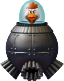
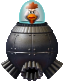
#29 Added bestiary support

diff --git a/NPCs/Chick.cs b/NPCs/Chick.cs
@@ -1,10 +1,12 @@
-using Terraria;
+using Microsoft.Xna.Framework;
+using Terraria;
+using Terraria.GameContent.Bestiary;
 using Terraria.GameContent.ItemDropRules;
 using Terraria.ID;
 using Terraria.ModLoader;
 
 namespace ChickenInvadersMod.NPCs
-{
+{   
     public class Chick : BaseChicken
     {
         int projectileType;
@@ -15,6 +17,15 @@ namespace ChickenInvadersMod.NPCs
         {
             DisplayName.SetDefault("Chick");
             Main.npcFrameCount[NPC.type] = Main.npcFrameCount[2];
+
+            NPCID.Sets.NPCBestiaryDrawModifiers drawModifiers = new NPCID.Sets.NPCBestiaryDrawModifiers(0)
+            {
+                Position = new Vector2(0f, -12f),
+                PortraitPositionXOverride = 0f,
+                PortraitPositionYOverride = -24f
+            };
+
+            NPCID.Sets.NPCBestiaryDrawOffset.Add(Type, drawModifiers);
         }
 
         public override void SetDefaults()
@@ -34,7 +45,15 @@ namespace ChickenInvadersMod.NPCs
             projectileDamage = NPC.damage / 2;
             projectileSpeed = 5f;
             Banner = NPC.type;
-            BannerItem = Mod.Find<ModItem>("ChickBanner").Type;
+            BannerItem = Mod.Find<ModItem>("ChickBanner").Type;            
+        }
+
+        public override void SetBestiary(BestiaryDatabase database, BestiaryEntry bestiaryEntry)
+        {
+            bestiaryEntry.Info.AddRange(new IBestiaryInfoElement[] {
+                ModInvasions.Chickens,
+                new FlavorTextBestiaryInfoElement("It's small and cute, but has a murderous look in its eyes."),
+            });            
         }
 
         public override void FindFrame(int frameHeight)
@@ -54,6 +73,7 @@ namespace ChickenInvadersMod.NPCs
 
             // Drop 1-5 of this item with 20% chance
             npcLoot.Add(ItemDropRule.Common(ModContent.ItemType<Items.ChickenTwinLegs>(), 5, 1, 5));
+            npcLoot.Add(ItemDropRule.Common(ItemID.ChickenNugget, 20));
         }
 
         public override void AI()

diff --git a/NPCs/SuperChicken.cs b/NPCs/SuperChicken.cs
@@ -1,8 +1,11 @@
 using ChickenInvadersMod.Projectiles;
 using Microsoft.Xna.Framework;
+using System.Collections.Generic;
 using System.IO;
 using Terraria;
 using Terraria.Audio;
+using Terraria.DataStructures;
+using Terraria.GameContent.Bestiary;
 using Terraria.GameContent.ItemDropRules;
 using Terraria.ID;
 using Terraria.ModLoader;
@@ -64,6 +67,20 @@ namespace ChickenInvadersMod.NPCs
         {
             DisplayName.SetDefault("Super Chicken");
             Main.npcFrameCount[NPC.type] = 4;
+
+            NPCDebuffImmunityData debuffData = new NPCDebuffImmunityData
+            {
+                SpecificallyImmuneTo = new int[] { BuffID.Confused }
+            };
+            NPCID.Sets.DebuffImmunitySets.Add(Type, debuffData);
+
+            var drawModifier = new NPCID.Sets.NPCBestiaryDrawModifiers(0)
+            {
+                Position = new Vector2(0f, 88f),
+                PortraitPositionXOverride = 0f,
+                PortraitPositionYOverride = 56f
+            };
+            NPCID.Sets.NPCBestiaryDrawOffset.Add(Type, drawModifier);
         }
 
         public override void SetDefaults()
@@ -81,7 +98,14 @@ namespace ChickenInvadersMod.NPCs
             NPC.boss = true;
             NPC.HitSound = SoundUtils.ChickenHit;
             NPC.DeathSound = SoundUtils.SuperChickenDeath;
-            NPC.buffImmune[BuffID.Confused] = true;
+        }
+
+        public override void SetBestiary(BestiaryDatabase database, BestiaryEntry bestiaryEntry)
+        {
+            bestiaryEntry.Info.AddRange(new IBestiaryInfoElement[] {
+                ModInvasions.Chickens,
+                new FlavorTextBestiaryInfoElement("Despite its appearance, the Super Chicken is actually a villain."),
+            });
         }
 
         public override bool CheckActive()

diff --git a/NPCs/EggShipChicken.cs b/NPCs/EggShipChicken.cs
@@ -1,6 +1,7 @@
 using Microsoft.Xna.Framework;
 using Terraria;
 using Terraria.Audio;
+using Terraria.GameContent.Bestiary;
 using Terraria.GameContent.ItemDropRules;
 using Terraria.ID;
 using Terraria.ModLoader;
@@ -22,6 +23,15 @@ namespace ChickenInvadersMod.NPCs
         public override void SetStaticDefaults()
         {
             DisplayName.SetDefault("Egg Ship Chicken");
+
+            NPCID.Sets.NPCBestiaryDrawModifiers drawModifiers = new NPCID.Sets.NPCBestiaryDrawModifiers(0)
+            {
+                Position = new Vector2(0f, 12f),
+                PortraitPositionXOverride = 0f,
+                PortraitPositionYOverride = 0f
+            };
+
+            NPCID.Sets.NPCBestiaryDrawOffset.Add(Type, drawModifiers);
         }
 
         public override void SetDefaults()
@@ -45,6 +55,14 @@ namespace ChickenInvadersMod.NPCs
             projectileDamage = NPC.damage / 2;
             Banner = NPC.type;
             BannerItem = Mod.Find<ModItem>("EggShipChickenBanner").Type;
+        }
+
+        public override void SetBestiary(BestiaryDatabase database, BestiaryEntry bestiaryEntry)
+        {
+            bestiaryEntry.Info.AddRange(new IBestiaryInfoElement[] {
+                ModInvasions.Chickens,
+                new FlavorTextBestiaryInfoElement("Geared with solid metal, the Egg Ship Chicken is a tough enemy to defeat."),
+            });
         }
 
         public override void ModifyNPCLoot(NPCLoot npcLoot)

diff --git a/NPCs/Chickenaut.cs b/NPCs/Chickenaut.cs
@@ -1,5 +1,7 @@
-using Terraria;
+using Microsoft.Xna.Framework;
+using Terraria;
 using Terraria.Audio;
+using Terraria.GameContent.Bestiary;
 using Terraria.GameContent.ItemDropRules;
 using Terraria.ID;
 using Terraria.ModLoader;
@@ -19,6 +21,14 @@ namespace ChickenInvadersMod.NPCs
         {
             DisplayName.SetDefault("Chickenaut");
             Main.npcFrameCount[NPC.type] = Main.npcFrameCount[2];
+
+            var drawModifier = new NPCID.Sets.NPCBestiaryDrawModifiers(0)
+            {
+                Position = new Vector2(0f, 32f),
+                PortraitPositionXOverride = 0f,
+                PortraitPositionYOverride = 0f
+            };
+            NPCID.Sets.NPCBestiaryDrawOffset.Add(Type, drawModifier);
         }
 
         public override void SetDefaults()
@@ -40,6 +50,14 @@ namespace ChickenInvadersMod.NPCs
             projectileSpeed = 7f;
             Banner = NPC.type;
             BannerItem = Mod.Find<ModItem>("ChickenautBanner").Type;
+        }
+
+        public override void SetBestiary(BestiaryDatabase database, BestiaryEntry bestiaryEntry)
+        {
+            bestiaryEntry.Info.AddRange(new IBestiaryInfoElement[] {
+                ModInvasions.Chickens,
+                new FlavorTextBestiaryInfoElement("The metal suit prevents the Chickenaut from shooting eggs, but allows it to shoots lasers."),
+            });
         }
 
         public override void FindFrame(int frameHeight)

diff --git a/NPCs/ChickGatlingGun.cs b/NPCs/ChickGatlingGun.cs
@@ -1,6 +1,7 @@
 using Microsoft.Xna.Framework;
 using System;
 using Terraria;
+using Terraria.GameContent.Bestiary;
 using Terraria.GameContent.ItemDropRules;
 using Terraria.ID;
 using Terraria.ModLoader;
@@ -26,6 +27,23 @@ namespace ChickenInvadersMod.NPCs
         {
             DisplayName.SetDefault("Chick Gatling Gun");
             Main.npcFrameCount[NPC.type] = Main.npcFrameCount[2];
+
+            NPCID.Sets.NPCBestiaryDrawModifiers drawModifiers = new NPCID.Sets.NPCBestiaryDrawModifiers(0)
+            {
+                Position = new Vector2(0f, 12f),
+                PortraitPositionXOverride = 0f,
+                PortraitPositionYOverride = 24f
+            };
+
+            NPCID.Sets.NPCBestiaryDrawOffset.Add(Type, drawModifiers);
+        }
+
+        public override void SetBestiary(BestiaryDatabase database, BestiaryEntry bestiaryEntry)
+        {
+            bestiaryEntry.Info.AddRange(new IBestiaryInfoElement[] {
+                ModInvasions.Chickens,
+                new FlavorTextBestiaryInfoElement("Why shoot one egg at a time when you have a gatling gun?"),
+            });
         }
 
         public override void SetDefaults()

diff --git a/NPCs/UfoChicken.cs b/NPCs/UfoChicken.cs
@@ -1,4 +1,5 @@
 using Terraria;
+using Terraria.GameContent.Bestiary;
 using Terraria.GameContent.ItemDropRules;
 using Terraria.ID;
 using Terraria.ModLoader;
@@ -37,6 +38,14 @@ namespace ChickenInvadersMod.NPCs
             BannerItem = Mod.Find<ModItem>("UfoChickenBanner").Type;
         }
 
+        public override void SetBestiary(BestiaryDatabase database, BestiaryEntry bestiaryEntry)
+        {
+            bestiaryEntry.Info.AddRange(new IBestiaryInfoElement[] {
+                ModInvasions.Chickens,
+                new FlavorTextBestiaryInfoElement("The UFO chicken is still learning how to control his UFO, but he's getting the hang of it."),
+            });
+        }
+
         public override void ModifyNPCLoot(NPCLoot npcLoot)
         {
             // Drop this item with 1% chance
@@ -52,6 +61,7 @@ namespace ChickenInvadersMod.NPCs
                 ItemDropRule.Common(ModContent.ItemType<Items.DoubleHamburger>(), 2)));
         }
 
+        // todo spawn a falling ufo after the npc is killed
         public override void AI()
         {
             // target nearest player

diff --git a/NPCs/Chicken.cs b/NPCs/Chicken.cs
@@ -1,4 +1,5 @@
 using Terraria;
+using Terraria.GameContent.Bestiary;
 using Terraria.GameContent.ItemDropRules;
 using Terraria.ID;
 using Terraria.ModLoader;
@@ -29,6 +30,15 @@ namespace ChickenInvadersMod.NPCs
             NPC.DeathSound = SoundUtils.ChickenDeath;
             Banner = NPC.type;
             BannerItem = Mod.Find<ModItem>("ChickenBanner").Type;
+        }
+
+        public override void SetBestiary(BestiaryDatabase database, BestiaryEntry bestiaryEntry)
+        {
+            bestiaryEntry.Info.AddRange(new IBestiaryInfoElement[] {
+                BestiaryDatabaseNPCsPopulator.CommonTags.SpawnConditions.Biomes.Sky,
+                ModInvasions.Chickens,
+                new FlavorTextBestiaryInfoElement("Caution: this is no ordinary chicken."),
+            });
         }
 
         public override float SpawnChance(NPCSpawnInfo spawnInfo)

diff --git a/NPCs/Barrier.cs b/NPCs/Barrier.cs
@@ -1,6 +1,7 @@
 using Microsoft.Xna.Framework;
 using Terraria;
 using Terraria.Audio;
+using Terraria.GameContent.Bestiary;
 using Terraria.GameContent.ItemDropRules;
 using Terraria.ID;
 using Terraria.ModLoader;
@@ -103,6 +104,14 @@ namespace ChickenInvadersMod.NPCs
             NPC.DeathSound = SoundID.NPCDeath14;
             Banner = NPC.type;
             BannerItem = Mod.Find<ModItem>("BarrierBanner").Type;
+        }
+
+        public override void SetBestiary(BestiaryDatabase database, BestiaryEntry bestiaryEntry)
+        {
+            bestiaryEntry.Info.AddRange(new IBestiaryInfoElement[] {
+                ModInvasions.Chickens,
+                new FlavorTextBestiaryInfoElement("Its purpose is to protect the chickens and it's pretty good at it."),
+            });
         }
 
         public override void FindFrame(int frameHeight)

diff --git a/NPCs/Egg.cs b/NPCs/Egg.cs
@@ -1,4 +1,5 @@
 using Terraria;
+using Terraria.GameContent.Bestiary;
 using Terraria.GameContent.ItemDropRules;
 using Terraria.ID;
 using Terraria.ModLoader;
@@ -29,6 +30,14 @@ namespace ChickenInvadersMod.NPCs
             NPC.DeathSound = SoundUtils.EggDeath;
             Banner = NPC.type;
             BannerItem = Mod.Find<ModItem>("EggBanner").Type;
+        }
+
+        public override void SetBestiary(BestiaryDatabase database, BestiaryEntry bestiaryEntry)
+        {
+            bestiaryEntry.Info.AddRange(new IBestiaryInfoElement[] {
+                ModInvasions.Chickens,
+                new FlavorTextBestiaryInfoElement("It may or may not contain a nasty surprise."),
+            });
         }
 
         public override void ModifyNPCLoot(NPCLoot npcLoot)

diff --git a/NPCs/PilotChicken.cs b/NPCs/PilotChicken.cs
@@ -1,4 +1,5 @@
 using Terraria;
+using Terraria.GameContent.Bestiary;
 using Terraria.GameContent.ItemDropRules;
 using Terraria.ID;
 using Terraria.ModLoader;
@@ -40,6 +41,14 @@ namespace ChickenInvadersMod.NPCs
             projectileSpeed = 7f;
             Banner = NPC.type;
             BannerItem = Mod.Find<ModItem>("PilotChickenBanner").Type;
+        }
+
+        public override void SetBestiary(BestiaryDatabase database, BestiaryEntry bestiaryEntry)
+        {
+            bestiaryEntry.Info.AddRange(new IBestiaryInfoElement[] {
+                ModInvasions.Chickens,
+                new FlavorTextBestiaryInfoElement("A chicken that is specialized in... flying."),
+            });
         }
 
         public override void FindFrame(int frameHeight)

diff --git a/ChickenInvasionCondition.cs b/ChickenInvasionCondition.cs
@@ -1,4 +1,5 @@
 using Terraria;
+using Terraria.GameContent.Bestiary;
 using Terraria.GameContent.ItemDropRules;
 
 namespace ChickenInvadersMod
@@ -46,5 +47,10 @@ namespace ChickenInvadersMod
         {
             return "Drops in hardmode near floating islands";
         }
+    }
+
+    public static class ModInvasions
+    {
+        public static SpawnConditionBestiaryInfoElement Chickens = new SpawnConditionBestiaryInfoElement("Chicken Invasion", 53, "Images/MapBG33");
     }
 }
